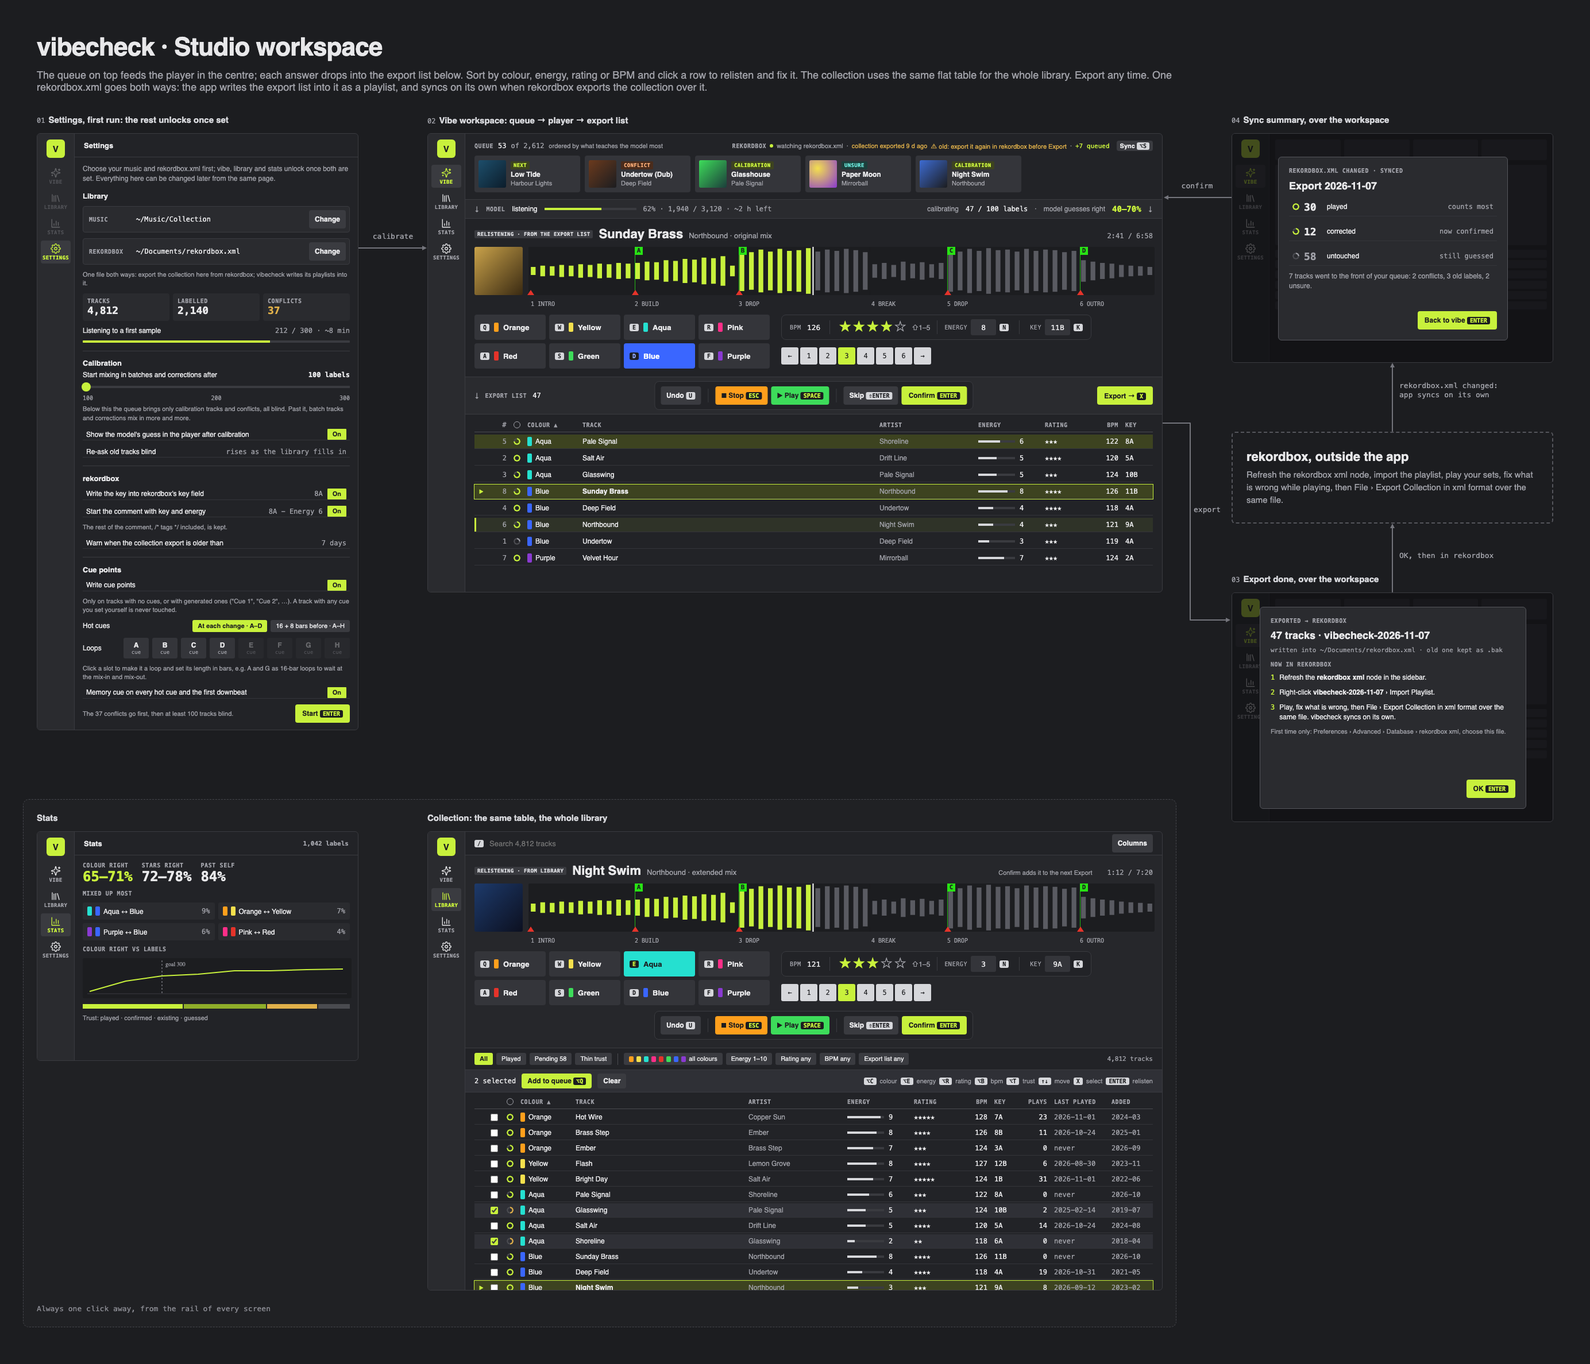
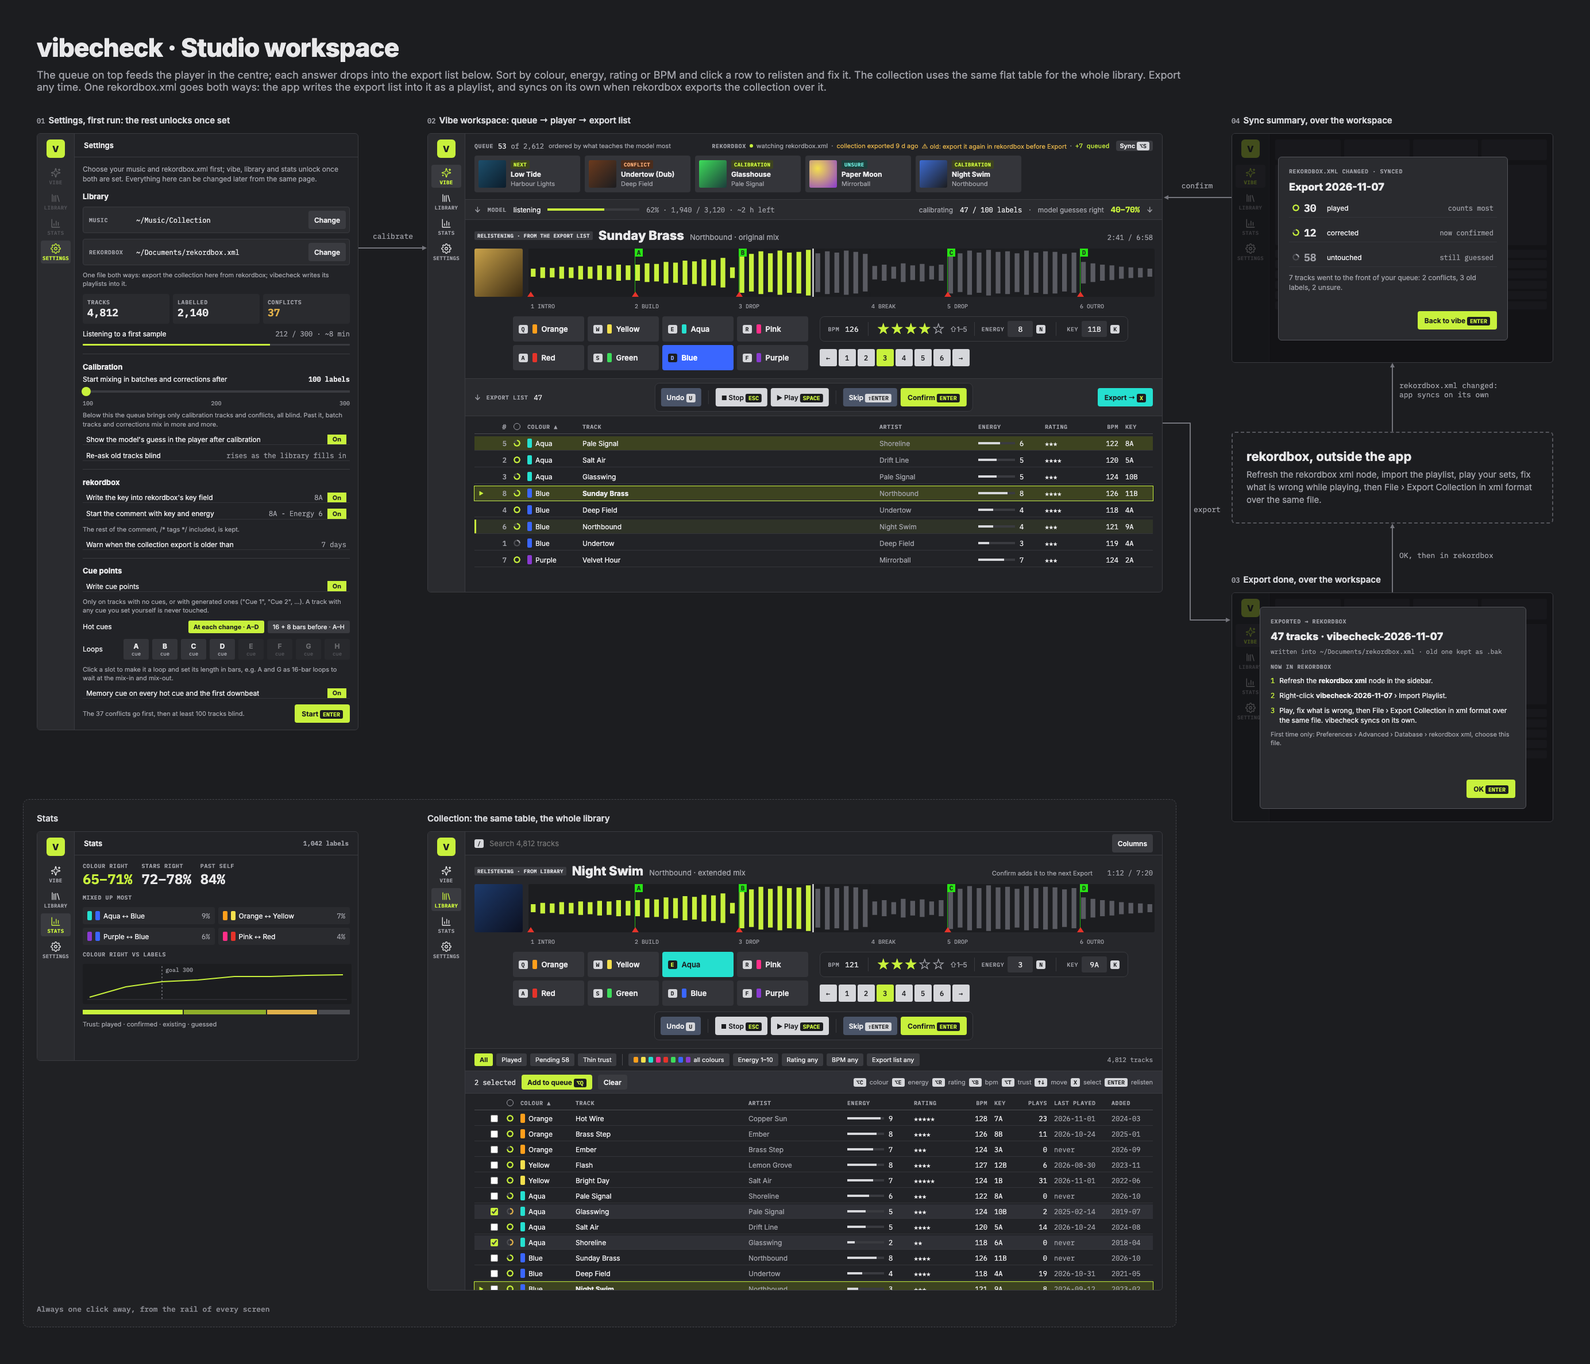
app: controls coloured by role, keys and meta centred
- undo/requeue slate, stop/play light grey, confirm lime, export aqua
- colour keys left of centre, meta tray and parts right of it

diff --git a/docs/ui/workspace.html b/docs/ui/workspace.html
@@ -179,8 +179,8 @@ a{color:#c8f13c}a:hover{color:#e0ff7a}
 <div style="position: relative"><svg width="1090" height="84" viewBox="0 0 528 72" preserveAspectRatio="none" role="img" aria-label="Waveform, playhead in the first drop" style="display: block; background: #1c1d20; border-radius: 3px"><path d="M4 30V42M12 28V44M20 29V43M28 27V45M36 28V44M44 26V46M52 27V45M60 25V47M68 26V46M76 24V48M84 25V47M92 24V48M100 22V50M108 23V49M116 20V52M124 21V51M132 18V54M140 19V53M148 16V56M156 17V55M164 14V58M172 28V44M180 6V66M188 8V64M196 4V68M204 7V65M212 3V69M220 6V66M228 5V67M236 2V70" stroke="#c8f13c" stroke-width="4"/><path d="M244 7V65M252 4V68M260 6V66M268 3V69M276 5V67M284 8V64M292 26V46M300 24V48M308 27V45M316 22V50M324 25V47M332 23V49M340 26V46M348 24V48M356 5V67M364 7V65M372 3V69M380 6V66M388 2V70M396 5V67M404 4V68M412 7V65M420 3V69M428 6V66M436 4V68M444 5V67M452 8V64M460 6V66M468 20V52M476 22V50M484 24V48M492 25V47M500 27V45M508 28V44M516 29V43M524 30V42" stroke="#5a5b62" stroke-width="4"/><path d="M240 0V72" stroke="#ffffff" stroke-width="1"/><path d="M0 0V72M88 0V72M176 0V72M288 0V72M352 0V72M464 0V72" stroke="#1c1d20" stroke-width="1"/></svg><div aria-label="Cue points" style="position: absolute; inset: 0; pointer-events: none"><span style="position: absolute; left: -2px; top: 75px; width: 0; height: 0; border-left: 6px solid transparent; border-right: 6px solid transparent; border-bottom: 9px solid #e5332a"></span><span style="position: absolute; left: 185px; top: 14px; width: 1px; height: 70px; background: rgba(40,226,20,.8)"></span><span style="position: absolute; left: 185px; top: 0; width: 14px; height: 14px; background: #28e214; color: #1c1d20; font: 600 11px 'IBM Plex Mono', monospace; line-height: 14px; text-align: center">A</span><span style="position: absolute; left: 180px; top: 75px; width: 0; height: 0; border-left: 6px solid transparent; border-right: 6px solid transparent; border-bottom: 9px solid #e5332a"></span><span style="position: absolute; left: 366px; top: 14px; width: 1px; height: 70px; background: rgba(40,226,20,.8)"></span><span style="position: absolute; left: 366px; top: 0; width: 14px; height: 14px; background: #28e214; color: #1c1d20; font: 600 11px 'IBM Plex Mono', monospace; line-height: 14px; text-align: center">B</span><span style="position: absolute; left: 361px; top: 75px; width: 0; height: 0; border-left: 6px solid transparent; border-right: 6px solid transparent; border-bottom: 9px solid #e5332a"></span><span style="position: absolute; left: 729px; top: 14px; width: 1px; height: 70px; background: rgba(40,226,20,.8)"></span><span style="position: absolute; left: 729px; top: 0; width: 14px; height: 14px; background: #28e214; color: #1c1d20; font: 600 11px 'IBM Plex Mono', monospace; line-height: 14px; text-align: center">C</span><span style="position: absolute; left: 724px; top: 75px; width: 0; height: 0; border-left: 6px solid transparent; border-right: 6px solid transparent; border-bottom: 9px solid #e5332a"></span><span style="position: absolute; left: 960px; top: 14px; width: 1px; height: 70px; background: rgba(40,226,20,.8)"></span><span style="position: absolute; left: 960px; top: 0; width: 14px; height: 14px; background: #28e214; color: #1c1d20; font: 600 11px 'IBM Plex Mono', monospace; line-height: 14px; text-align: center">D</span><span style="position: absolute; left: 955px; top: 75px; width: 0; height: 0; border-left: 6px solid transparent; border-right: 6px solid transparent; border-bottom: 9px solid #e5332a"></span></div></div>
 <div class="mono" style="position: relative; height: 14px; font-size: 10px; color: #a0a1a8"><span style="position: absolute; left: 4px">1 INTRO</span><span style="position: absolute; left: 185px">2 BUILD</span><span style="position: absolute; left: 366px">3 DROP</span><span style="position: absolute; left: 597px">4 BREAK</span><span style="position: absolute; left: 729px">5 DROP</span><span style="position: absolute; left: 960px">6 OUTRO</span></div>
 </div></div>
-<div style="display: flex; gap: 20px; align-items: flex-start">
-<div style="display: grid; grid-template-columns: repeat(4, 124px); gap: 6px">
+<div style="display: grid; grid-template-columns: 1fr 1fr; gap: 20px; align-items: start">
+<div style="display: grid; grid-template-columns: repeat(4, 124px); gap: 6px; justify-self: end">
 <div class="key"><span class="kbd">Q</span><span class="dot" style="background: #ff9f1c"></span>Orange</div>
 <div class="key"><span class="kbd">W</span><span class="dot" style="background: #f4e04d"></span>Yellow</div>
 <div class="key"><span class="kbd">E</span><span class="dot" style="background: #25e0d0"></span>Aqua</div>
@@ -194,7 +194,7 @@ a{color:#c8f13c}a:hover{color:#e0ff7a}
 </div>
 </div>
 
-<div style="position: relative; padding: 8px 16px; border-bottom: 1px solid #3a3b40; display: flex; align-items: center; gap: 10px; background: #2a2b2f; min-height: 48px"><span style="font-size: 13px; color: #a0a1a8">↓</span><span class="lbl">Export list</span><span class="mono" style="font-size: 12px">47</span><div style="position: absolute; left: 50%; top: 50%; transform: translate(-50%, -50%)"><div style="display: inline-flex; align-items: center; gap: 6px; padding: 8px 10px; background: #222327; border: 1px solid #3a3b40; border-radius: 8px"><button class="btn">Undo <span class="kbd">U</span></button><span style="width: 1px; height: 24px; background: #3a3b40; margin: 0 6px"></span><button class="btn" style="background: #ff9f1c; color: #1c1d20"><svg width="10" height="10" viewBox="0 0 10 10" style="vertical-align: -1px"><rect x="1" y="1" width="8" height="8" fill="#1c1d20"/></svg> Stop <span class="kbdd">ESC</span></button><button class="btn" style="background: #3ddc5a; color: #1c1d20"><svg width="10" height="10" viewBox="0 0 10 10" style="vertical-align: -1px"><path d="M1 0 10 5 1 10z" fill="#1c1d20"/></svg> Play <span class="kbdd">SPACE</span></button><span style="width: 1px; height: 24px; background: #3a3b40; margin: 0 6px"></span><button class="btn" title="from the queue this slot reads: Requeue">Skip <span class="kbd">⇧ENTER</span></button><button class="btnp">Confirm <span class="kbdd">ENTER</span></button></div></div><button class="btnp" style="margin-left: auto">Export → <span class="kbdd">X</span></button></div>
+<div style="position: relative; padding: 8px 16px; border-bottom: 1px solid #3a3b40; display: flex; align-items: center; gap: 10px; background: #2a2b2f; min-height: 48px"><span style="font-size: 13px; color: #a0a1a8">↓</span><span class="lbl">Export list</span><span class="mono" style="font-size: 12px">47</span><div style="position: absolute; left: 50%; top: 50%; transform: translate(-50%, -50%)"><div style="display: inline-flex; align-items: center; gap: 6px; padding: 8px 10px; background: #222327; border: 1px solid #3a3b40; border-radius: 8px"><button class="btn" style="background: #4a5468">Undo <span class="kbd">U</span></button><span style="width: 1px; height: 24px; background: #3a3b40; margin: 0 6px"></span><button class="btn" style="background: #d6d7db; color: #1c1d20"><svg width="10" height="10" viewBox="0 0 10 10" style="vertical-align: -1px"><rect x="1" y="1" width="8" height="8" fill="#1c1d20"/></svg> Stop <span class="kbdd">ESC</span></button><button class="btn" style="background: #d6d7db; color: #1c1d20"><svg width="10" height="10" viewBox="0 0 10 10" style="vertical-align: -1px"><path d="M1 0 10 5 1 10z" fill="#1c1d20"/></svg> Play <span class="kbdd">SPACE</span></button><span style="width: 1px; height: 24px; background: #3a3b40; margin: 0 6px"></span><button class="btn" style="background: #4a5468" title="from the queue this slot reads: Requeue">Skip <span class="kbd">⇧ENTER</span></button><button class="btnp">Confirm <span class="kbdd">ENTER</span></button></div></div><button class="btnp" style="margin-left: auto; background: #25e0d0">Export → <span class="kbdd">X</span></button></div>
 
 <div style="flex: 1; min-height: 0; padding: 6px 16px 10px; display: flex; flex-direction: column; gap: 4px; overflow: hidden">
 <div class="trow th"><span class="c-now"></span><span class="c-num">#</span><span style="width: 12px; height: 12px; box-sizing: border-box; border: 1.5px solid #a0a1a8; border-radius: 50%; flex: none" title="Trust: click to sort"></span><span class="c-col">Colour ▲</span><span class="c-trk">Track</span><span class="c-art">Artist</span><span class="c-en">Energy</span><span class="c-st">Rating</span><span class="c-bpm">BPM</span><span class="c-key">Key</span></div>
@@ -289,8 +289,8 @@ a{color:#c8f13c}a:hover{color:#e0ff7a}
 <div style="position: relative"><svg width="1090" height="84" viewBox="0 0 528 72" preserveAspectRatio="none" role="img" aria-label="Waveform of Night Swim" style="display: block; background: #1c1d20; border-radius: 3px"><path d="M4 30V42M12 28V44M20 29V43M28 27V45M36 28V44M44 26V46M52 27V45M60 25V47M68 26V46M76 24V48M84 25V47M92 24V48M100 22V50M108 23V49M116 20V52M124 21V51M132 18V54M140 19V53M148 16V56M156 17V55M164 14V58M172 28V44M180 6V66M188 8V64M196 4V68M204 7V65M212 3V69M220 6V66M228 5V67M236 2V70" stroke="#c8f13c" stroke-width="4"/><path d="M244 7V65M252 4V68M260 6V66M268 3V69M276 5V67M284 8V64M292 26V46M300 24V48M308 27V45M316 22V50M324 25V47M332 23V49M340 26V46M348 24V48M356 5V67M364 7V65M372 3V69M380 6V66M388 2V70M396 5V67M404 4V68M412 7V65M420 3V69M428 6V66M436 4V68M444 5V67M452 8V64M460 6V66M468 20V52M476 22V50M484 24V48M492 25V47M500 27V45M508 28V44M516 29V43M524 30V42" stroke="#5a5b62" stroke-width="4"/><path d="M240 0V72" stroke="#ffffff" stroke-width="1"/><path d="M0 0V72M88 0V72M176 0V72M288 0V72M352 0V72M464 0V72" stroke="#1c1d20" stroke-width="1"/></svg><div aria-label="Cue points" style="position: absolute; inset: 0; pointer-events: none"><span style="position: absolute; left: -2px; top: 75px; width: 0; height: 0; border-left: 6px solid transparent; border-right: 6px solid transparent; border-bottom: 9px solid #e5332a"></span><span style="position: absolute; left: 185px; top: 14px; width: 1px; height: 70px; background: rgba(40,226,20,.8)"></span><span style="position: absolute; left: 185px; top: 0; width: 14px; height: 14px; background: #28e214; color: #1c1d20; font: 600 11px 'IBM Plex Mono', monospace; line-height: 14px; text-align: center">A</span><span style="position: absolute; left: 180px; top: 75px; width: 0; height: 0; border-left: 6px solid transparent; border-right: 6px solid transparent; border-bottom: 9px solid #e5332a"></span><span style="position: absolute; left: 366px; top: 14px; width: 1px; height: 70px; background: rgba(40,226,20,.8)"></span><span style="position: absolute; left: 366px; top: 0; width: 14px; height: 14px; background: #28e214; color: #1c1d20; font: 600 11px 'IBM Plex Mono', monospace; line-height: 14px; text-align: center">B</span><span style="position: absolute; left: 361px; top: 75px; width: 0; height: 0; border-left: 6px solid transparent; border-right: 6px solid transparent; border-bottom: 9px solid #e5332a"></span><span style="position: absolute; left: 729px; top: 14px; width: 1px; height: 70px; background: rgba(40,226,20,.8)"></span><span style="position: absolute; left: 729px; top: 0; width: 14px; height: 14px; background: #28e214; color: #1c1d20; font: 600 11px 'IBM Plex Mono', monospace; line-height: 14px; text-align: center">C</span><span style="position: absolute; left: 724px; top: 75px; width: 0; height: 0; border-left: 6px solid transparent; border-right: 6px solid transparent; border-bottom: 9px solid #e5332a"></span><span style="position: absolute; left: 960px; top: 14px; width: 1px; height: 70px; background: rgba(40,226,20,.8)"></span><span style="position: absolute; left: 960px; top: 0; width: 14px; height: 14px; background: #28e214; color: #1c1d20; font: 600 11px 'IBM Plex Mono', monospace; line-height: 14px; text-align: center">D</span><span style="position: absolute; left: 955px; top: 75px; width: 0; height: 0; border-left: 6px solid transparent; border-right: 6px solid transparent; border-bottom: 9px solid #e5332a"></span></div></div>
 <div class="mono" style="position: relative; height: 14px; font-size: 10px; color: #a0a1a8"><span style="position: absolute; left: 4px">1 INTRO</span><span style="position: absolute; left: 185px">2 BUILD</span><span style="position: absolute; left: 366px">3 DROP</span><span style="position: absolute; left: 597px">4 BREAK</span><span style="position: absolute; left: 729px">5 DROP</span><span style="position: absolute; left: 960px">6 OUTRO</span></div>
 </div></div>
-<div style="display: flex; gap: 20px; align-items: flex-start">
-<div style="display: grid; grid-template-columns: repeat(4, 124px); gap: 6px">
+<div style="display: grid; grid-template-columns: 1fr 1fr; gap: 20px; align-items: start">
+<div style="display: grid; grid-template-columns: repeat(4, 124px); gap: 6px; justify-self: end">
 <div class="key"><span class="kbd">Q</span><span class="dot" style="background: #ff9f1c"></span>Orange</div>
 <div class="key"><span class="kbd">W</span><span class="dot" style="background: #f4e04d"></span>Yellow</div>
 <div class="key" style="background: #25e0d0; color: #1c1d20"><span class="kbdd">E</span>Aqua</div>
@@ -302,7 +302,7 @@ a{color:#c8f13c}a:hover{color:#e0ff7a}
 </div>
 <div style="display: flex; flex-direction: column; gap: 6px"><div style="height: 44px; display: flex; align-items: center"><div style="display: inline-flex; align-items: center; box-sizing: border-box; height: 44px; padding: 0 14px; background: #222327; border: 1px solid #3a3b40; border-radius: 8px"><div style="display: flex; align-items: center; gap: 4px"><span style="font: 500 10px 'IBM Plex Mono', monospace; letter-spacing: .06em; color: #a0a1a8">BPM</span><span class="mono" style="font-size: 13px; margin-left: 6px">121</span><span style="width: 1px; height: 24px; background: #3a3b40; margin: 0 12px"></span><span style="font-size: 20px; line-height: 1; color: #c8f13c">★</span><span style="font-size: 20px; line-height: 1; color: #c8f13c">★</span><span style="font-size: 20px; line-height: 1; color: #c8f13c">★</span><span style="font-size: 20px; line-height: 1; color: #a0a1a8">☆</span><span style="font-size: 20px; line-height: 1; color: #a0a1a8">☆</span><span style="font-size: 12px; color: #a0a1a8; margin-left: 6px">⇧1–5</span></div><span style="width: 1px; height: 24px; background: #3a3b40; margin: 0 12px"></span><div style="display: flex; align-items: center; gap: 6px"><span style="font: 500 10px 'IBM Plex Mono', monospace; letter-spacing: .06em; color: #a0a1a8">ENERGY</span><span class="mono" style="display: inline-flex; align-items: center; justify-content: center; min-width: 44px; height: 28px; border-radius: 3px; background: #34353a; font-size: 13px">3</span><span class="kbd">N</span><span style="width: 1px; height: 24px; background: #3a3b40; margin: 0 12px"></span><span style="font: 500 10px 'IBM Plex Mono', monospace; letter-spacing: .06em; color: #a0a1a8">KEY</span><span class="mono" style="display: inline-flex; align-items: center; justify-content: center; min-width: 44px; height: 28px; border-radius: 3px; background: #34353a; font-size: 13px">9A</span><span class="kbd">K</span></div></div></div><div style="height: 44px; display: flex; align-items: center"><span style="display: inline-flex; gap: 3px; margin: 0"><span style="display: inline-flex; align-items: center; justify-content: center; width: 30px; height: 30px; border-radius: 3px; font: 500 12px 'IBM Plex Mono', monospace; color: #1c1d20; background: #d6d7db">←</span><span style="display: inline-flex; align-items: center; justify-content: center; width: 30px; height: 30px; border-radius: 3px; font: 500 12px 'IBM Plex Mono', monospace; color: #1c1d20; background: #d6d7db">1</span><span style="display: inline-flex; align-items: center; justify-content: center; width: 30px; height: 30px; border-radius: 3px; font: 500 12px 'IBM Plex Mono', monospace; color: #1c1d20; background: #d6d7db">2</span><span style="display: inline-flex; align-items: center; justify-content: center; width: 30px; height: 30px; border-radius: 3px; font: 500 12px 'IBM Plex Mono', monospace; color: #1c1d20; background: #c8f13c">3</span><span style="display: inline-flex; align-items: center; justify-content: center; width: 30px; height: 30px; border-radius: 3px; font: 500 12px 'IBM Plex Mono', monospace; color: #1c1d20; background: #d6d7db">4</span><span style="display: inline-flex; align-items: center; justify-content: center; width: 30px; height: 30px; border-radius: 3px; font: 500 12px 'IBM Plex Mono', monospace; color: #1c1d20; background: #d6d7db">5</span><span style="display: inline-flex; align-items: center; justify-content: center; width: 30px; height: 30px; border-radius: 3px; font: 500 12px 'IBM Plex Mono', monospace; color: #1c1d20; background: #d6d7db">6</span><span style="display: inline-flex; align-items: center; justify-content: center; width: 30px; height: 30px; border-radius: 3px; font: 500 12px 'IBM Plex Mono', monospace; color: #1c1d20; background: #d6d7db">→</span></span></div></div>
 </div>
-<div style="display: flex; justify-content: center"><div style="display: inline-flex; align-items: center; gap: 6px; padding: 8px 10px; background: #222327; border: 1px solid #3a3b40; border-radius: 8px"><button class="btn">Undo <span class="kbd">U</span></button><span style="width: 1px; height: 24px; background: #3a3b40; margin: 0 6px"></span><button class="btn" style="background: #ff9f1c; color: #1c1d20"><svg width="10" height="10" viewBox="0 0 10 10" style="vertical-align: -1px"><rect x="1" y="1" width="8" height="8" fill="#1c1d20"/></svg> Stop <span class="kbdd">ESC</span></button><button class="btn" style="background: #3ddc5a; color: #1c1d20"><svg width="10" height="10" viewBox="0 0 10 10" style="vertical-align: -1px"><path d="M1 0 10 5 1 10z" fill="#1c1d20"/></svg> Play <span class="kbdd">SPACE</span></button><span style="width: 1px; height: 24px; background: #3a3b40; margin: 0 6px"></span><button class="btn">Skip <span class="kbd">⇧ENTER</span></button><button class="btnp">Confirm <span class="kbdd">ENTER</span></button></div></div>
+<div style="display: flex; justify-content: center"><div style="display: inline-flex; align-items: center; gap: 6px; padding: 8px 10px; background: #222327; border: 1px solid #3a3b40; border-radius: 8px"><button class="btn" style="background: #4a5468">Undo <span class="kbd">U</span></button><span style="width: 1px; height: 24px; background: #3a3b40; margin: 0 6px"></span><button class="btn" style="background: #d6d7db; color: #1c1d20"><svg width="10" height="10" viewBox="0 0 10 10" style="vertical-align: -1px"><rect x="1" y="1" width="8" height="8" fill="#1c1d20"/></svg> Stop <span class="kbdd">ESC</span></button><button class="btn" style="background: #d6d7db; color: #1c1d20"><svg width="10" height="10" viewBox="0 0 10 10" style="vertical-align: -1px"><path d="M1 0 10 5 1 10z" fill="#1c1d20"/></svg> Play <span class="kbdd">SPACE</span></button><span style="width: 1px; height: 24px; background: #3a3b40; margin: 0 6px"></span><button class="btn" style="background: #4a5468">Skip <span class="kbd">⇧ENTER</span></button><button class="btnp">Confirm <span class="kbdd">ENTER</span></button></div></div>
 </div>
 <div style="display: flex; flex-wrap: wrap; align-items: center; gap: 6px; padding: 8px 16px; border-bottom: 1px solid #3a3b40">
 <span class="chip chon">All</span><span class="chip">Played</span><span class="chip">Pending 58</span><span class="chip">Thin trust</span>

diff --git a/docs/ui/decisions.md b/docs/ui/decisions.md
@@ -138,6 +138,9 @@ waveform and charts darker still (`#1c1d20`); dialogs and popups unchanged.
      export";
    - the colour keys in **two rows** (QWER light / ASDF dark), which the user
      likes;
+   - the colour keys left of the player's centre line and the tray and parts
+     right of it, so on a wide window they stay centred as a pair over the
+     controls tray (the user);
    - beside the colour keys, level with the bottom row, **the parts of the track**: ←
      then a button per part numbered as on the waveform, the part playing
      lit, →;
@@ -162,9 +165,12 @@ waveform and charts darker still (`#1c1d20`); dialogs and popups unchanged.
        with Export staying at its right end (the user: it frees a row for the
        list); in the collection under the colour keys: **Undo** (U), a button
        of its own, leftmost | Stop (ESC) and Play/Pause (SPACE) | Skip or
-       Requeue and Confirm. Stop is filled in
-       rekordbox's orange and Play/Pause in its green, dark ink as on Confirm
-       (the user). Play/Pause and
+       Requeue and Confirm. Coloured by role, so each is spotted at once
+       (the user picked this from five schemes): moving through tracks slate
+       `#4a5468` (Undo, Skip/Requeue), playback light grey `#d6d7db` (Stop,
+       Play/Pause), deciding lime (Confirm), output aqua `#25e0d0` (Export).
+       Rekordbox's own colours were dropped from Stop (orange) and Play
+       (green): next to the colour keys they read as labels. Play/Pause and
        Skip/Requeue keep a fixed width so the tray doesn't shift.
      - With no track open the trays are hidden.
    - The artist line in the header takes the room left and trims with …, so a
